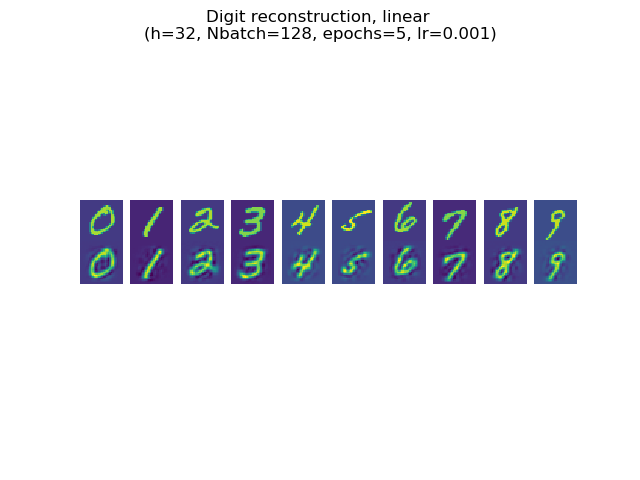
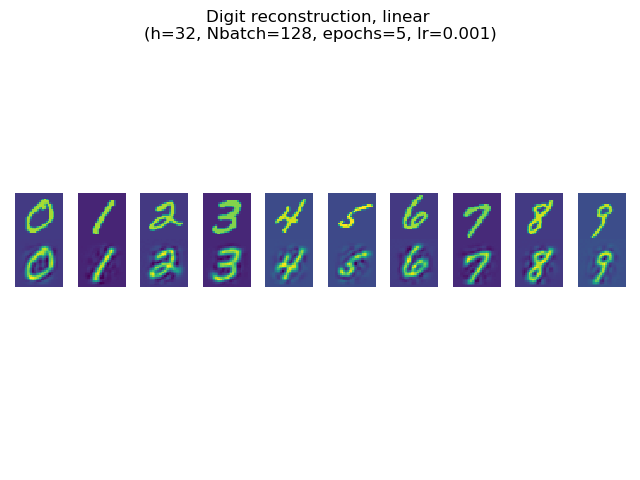
Update plots to tightlayout.

Changed region(s): [[0.0, 0.375, 1.0, 0.625]]

diff --git a/HW4/HW4_code_solutions/autoencoders.py b/HW4/HW4_code_solutions/autoencoders.py
@@ -275,7 +275,7 @@ def showimages(images, interpolation="nearest"):
     for img, ax in zip(images, axes.ravel()):
         ax.imshow(img.cpu(), interpolation=interpolation)
         ax.set_axis_off()
-
+    fig.set_tight_layout(True)
     return fig, ax
 
 
@@ -335,7 +335,7 @@ def A3a(epochs=5, learningRate=1e-3, batchSize=128, verbosity=5):
         fig.suptitle("Digit reconstruction, linear \n"
                      f"(h={latentSize}, Nbatch={batchSize}, epochs={epochs}, "
                      f"lr={learningRate})")
-        fig.savefig(f"plots/A3a_h{latentSize}.png")
+        fig.savefig(f"../HW4_plots/A3a_h{latentSize}.png")
     plt.show()
 
 
@@ -362,14 +362,14 @@ def A3b(epochs=5, learningRate=1e-3, batchSize=128, verbosity=5):
         fig.suptitle("Digit reconstruction, non-linear \n"
                      f"(h={latentSize}, Nbatch={batchSize}, epochs={epochs}, "
                      f"lr={learningRate})")
-        fig.savefig(f"plots/A3b_h{latentSize}.png")
+        fig.savefig(f"../HW4_plots/A3b_h{latentSize}.png")
     plt.show()
 
 
 def A3():
     """Runs part a and b of problem A3 in HW4"""
     A3a()
-    A3b()
+#    A3b()
 
 
 if __name__ == "__main__":
@@ -439,6 +439,7 @@ def plot_latent(dataLoader, model, vectors=(0,1)):
     plt.ylabel(f"Dimension {vectors[1]}")
     plt.xlim(-15, 15)
     plt.ylim(-5, 5)
+    plt.tight_layout()
     return fig, axes
 
 
@@ -456,14 +457,14 @@ def extra_autoencoder(epochs=10, learningRate=1e-3, batchSize=1024):
     plt.show()
 
     fig, axes = plot_latent(trainLoader, AC)
-    fig.savefig("plots/MyAutoencoder_LatentSpace1.png")
+    fig.savefig("../HW4_plots/MyAutoencoder_LatentSpace1.png")
     plt.show()
     fig, axes = plot_latent(trainLoader, AC, (0, 2))
-    fig.savefig("plots/MyAutoencoder_LatentSpace2.png")
+    fig.savefig("../HW4_plots/MyAutoencoder_LatentSpace2.png")
     plt.show()
     fig, axes = plot_latent(trainLoader, AC, (1, 2))
-    fig.savefig("plots/MyAutoencoder_LatentSpace3.png")
+    fig.savefig("../HW4_plots/MyAutoencoder_LatentSpace3.png")
     plt.show()
 
 
-extra_autoencoder()
+#extra_autoencoder()
